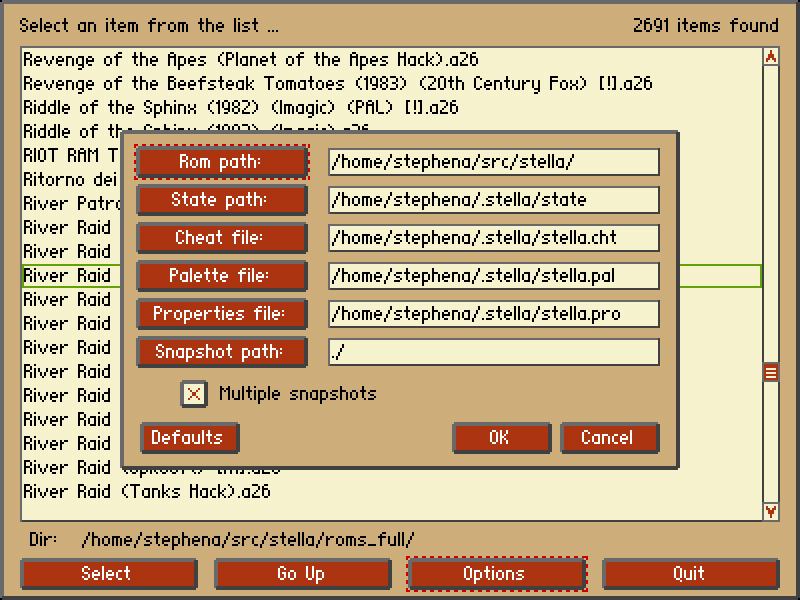
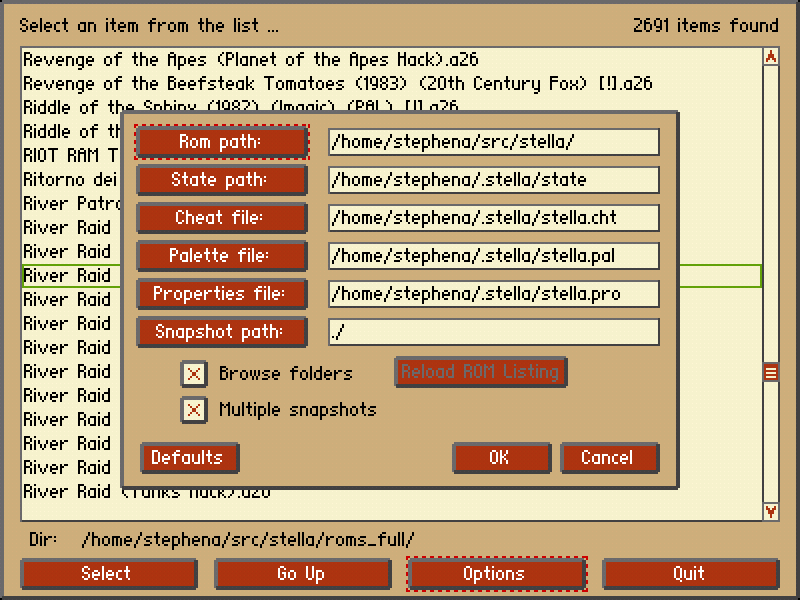
Updates for the 2.4.1 release.

Changed region(s): [[0.125, 0.18, 0.875, 0.84]]

diff --git a/stella/docs/index.html b/stella/docs/index.html
@@ -10,7 +10,7 @@
 	<br><br>
 	<center><h2><b>A multi-platform Atari 2600 VCS emulator</b></h2></center>
 
-	<center><h4><b>Release 2.4</b></h4></center>
+	<center><h4><b>Release 2.4.1</b></h4></center>
 	<br><br>
 
 	<center><h2><b>User's Guide</b></h2></center>
@@ -218,66 +218,14 @@
     Sega Dreamcast, Unix, and Windows.
 	</p>
 
-	<h2><b>New in Release 2.4</b></h2>
+	<h2><b>New in Release 2.4.1</b></h2>
 
 	<ul>
-<li>Added new video sub-system where fullscreen and windowed modes are treated
-    differently.  Windowed modes now use '-zoom_tia' and '-zoom_ui' arguments,
-    while fullscreen modes can be specified by resolution using the new
-    '-fullres' argument.</li>
+<li>Re-added OpenGL aspect ratio setting ('gl_aspect' commandline argument).</li>
 
-<li>Widescreen video modes are now supported; Stella will simply center the
-    image with surrounding black borders.</li>
+<li>Re-added non-browser mode to the ROM launcher.</li>
 
-<li>Many UI-related changes, including resizable ROM launcher and debugger
-    windows, and a new UI palette (the previous 'classic' palette is still
-    available).  This is still a work in progress.</li>
-
-<li>The locations of all major config files (statedir, palette file,
-    cheat file, properties file, etc) are now configurable from the
-    commandline and within the UI.</li>
-
-<li>Updates to TIA palette support.  Added SECAM support, and removed the
-    built-in 'original' palette.  Standard, z26, and user are still
-    available.</li>
-
-<li>Various bugfixes to some debugger commands.  The 'run' command no
-    longer causes a crash, and several others have better error-checking.</li>
-
-<li>Added more complete cartridge auto-detection for Commavid (CV), 3E,
-    3F and Activision (FE) formats.</li>
-
-<li>Removed XStart and Width ROM properties, since the forthcoming TIA
-    rework won't be using them.</li>
-
-<li>Reworked internal storage of ROM properties to be faster and take up
-    less space.</li>
-
-<li>Added several different ways of stretching the OpenGL image to the
-    '-gl_fsmax' argument, for more flexibility.</li>
-
-<li>Removed OpenGL aspect ratio setting favour of the previously mentioned
-    video changes.  We'll see how this goes.</li>
-
-<li>Removed dirty-rect support from software rendering, since it was actually
-    sub-optimal in Windows and OSX and defaulted to off in previous versions.</li>
-
-<li>Added support for gzipped ROMs.</li>
-
-<li>Re-added pause support.</li>
-
-<li>Re-added support for Windows 98.</li>
-
-<li>Removed support for 'STELLA_BASEDIR' environment variable, since each
-    config file can be now configured separately.</li>
-
-<li>Removed '-fastscbios' argument, since it must always be turned on.</li>
-
-<li>Removed PSP support, since it hasn't been updated in over a year, and
-    someone else is maintaining another port elsewhere.</li>
-
-<li>For the Unix/Linux port; fixed 'make install' issues, and changed icon to
-    PNG format.</li>
+<li>For the Linux/UNIX port; fixed OpenGL vsync issue with Nvidia video cards.</li>
 	</ul>
 
 	<p>
@@ -416,12 +364,10 @@
 			<li>Install the executable with the following command:
 				<pre>   make install</pre></li>
 		</ol>
-		<li><b>Source RPM</b> (stella-<i>release</i>-1.src.rpm)</li>
+		<li><b>Binary DEB</b> (stella-<i>release</i>-1_arch.deb)</li>
 		<ol>
-			<li>Rebuild the archive with the following command:
-				<pre>   rpmbuild --rebuild stella-<i>release</i>-1.src.rpm</pre></li>
-			<li>Follow the instructions under <i>Binary RPM</i> to install
-				the stella-<i>release</i>-1.ix86.rpm file</li>
+			<li>Install the binary DEB with the following command:
+				<pre>   dpkg -i stella-<i>release</i>-1_arch.deb</pre></li>
 		</ol>
 		<li><b>Binary RPM</b> (stella-<i>release</i>-1.ix86.rpm)</li>
 		<ol>
@@ -757,6 +703,11 @@
 		<tr>
 			<td><pre>-pthresh &lt;number&gt;</pre></td>
 			<td>Set threshold for eliminating paddle jitter.</td>
+		</tr>
+
+		<tr>
+			<td><pre>-rombrowse &lt;1|0&gt;</pre></td>
+			<td>Use browser mode (shows files and folders) in ROM launcher.</td>
 		</tr>
 
 		<tr>
